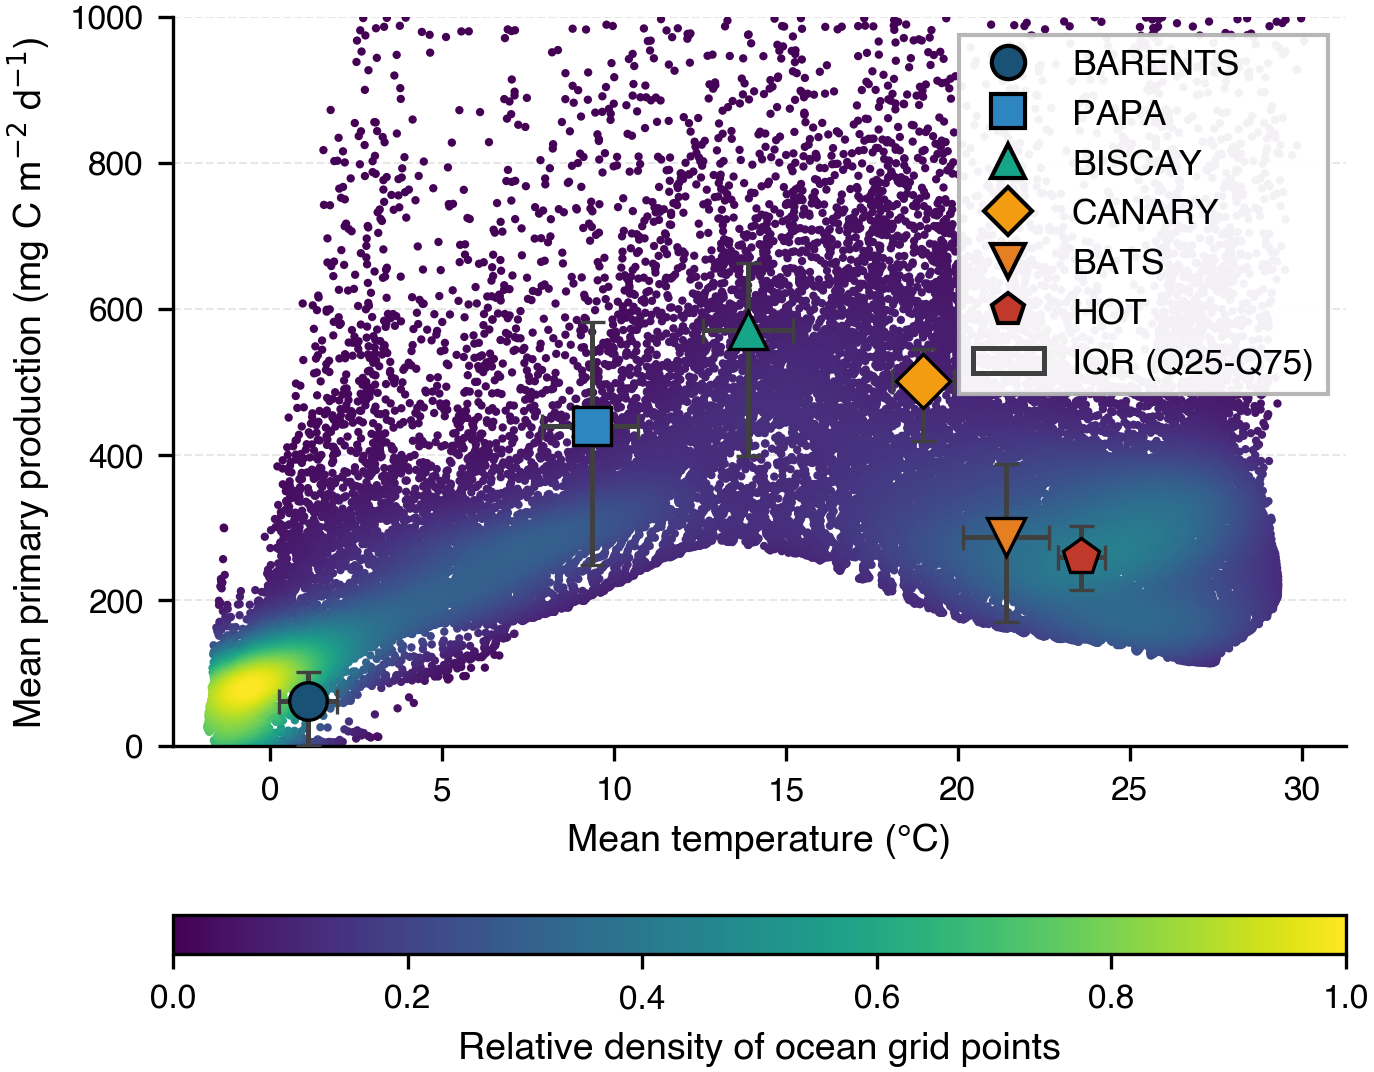
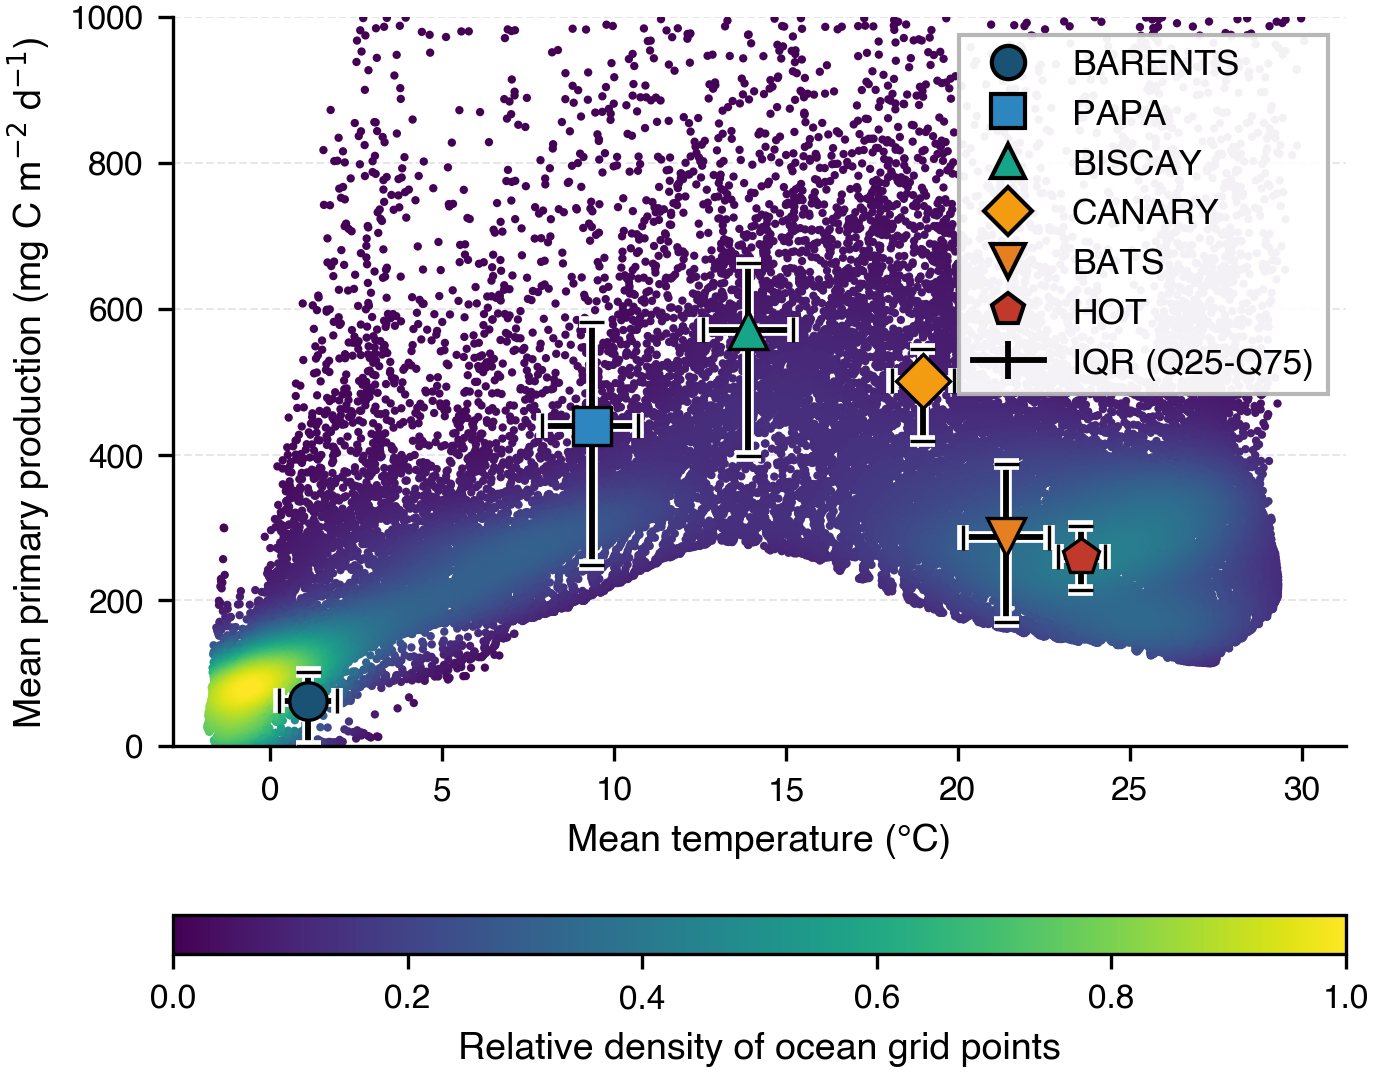
Figure 2: legible IQR — black error bars with white halo + black legend glyph
The IQR error bars were gray (0.25) and vanished over the coloured scatter. Make them black with a
white path-effect halo so they read over any background; switch the legend entry from a gray rectangle
to a black error-bar glyph. Drop the now-unused Rectangle import.

diff --git a/scripts/figures/fig02_stations_distribution.py b/scripts/figures/fig02_stations_distribution.py
@@ -12,12 +12,12 @@ Run    : .venv/bin/python scripts/figures/fig02_stations_distribution.py
 """
 from __future__ import annotations
 
+import matplotlib.patheffects as pe
 import matplotlib.pyplot as plt
 import numpy as np
 import pandas as pd
 import xarray as xr
 from matplotlib.lines import Line2D
-from matplotlib.patches import Rectangle
 from scipy.stats import gaussian_kde
 
 from seapopym_repro import figstyle as fs, paths
@@ -69,18 +69,24 @@ cbar.set_label("Relative density of ocean grid points")
 
 for sid in STATIONS:
     s = rows[sid]
-    ax.errorbar(
+    eb = ax.errorbar(
         s["temp_mean"], s["npp_mean"],
         xerr=[[s["temp_mean"] - s["temp_q25"]], [s["temp_q75"] - s["temp_mean"]]],
         yerr=[[s["npp_mean"] - s["npp_q25"]], [s["npp_q75"] - s["npp_mean"]]],
-        fmt=fs.marker(sid), color=fs.color(sid), markersize=9, capsize=3, capthick=1.2,
-        elinewidth=1.2, ecolor="0.25", markeredgecolor="black", markeredgewidth=0.8, zorder=5,
+        fmt=fs.marker(sid), color=fs.color(sid), markersize=9, capsize=3, capthick=1.4,
+        elinewidth=1.4, ecolor="black", markeredgecolor="black", markeredgewidth=0.8, zorder=6,
     )
+    halo = [pe.withStroke(linewidth=2.8, foreground="white")]   # white halo -> legible over the scatter
+    for ln in eb[1]:        # cap lines
+        ln.set_path_effects(halo)
+    for lc in eb[2]:        # bar line collections
+        lc.set_path_effects(halo)
 
 handles = [Line2D([0], [0], marker=fs.marker(sid), color="none", markerfacecolor=fs.color(sid),
                   markeredgecolor="black", markersize=8, linestyle="None", label=fs.label(sid))
            for sid in STATIONS]
-handles.append(Rectangle((0, 0), 1, 1, fc="none", ec="0.25", linewidth=1.2, label="IQR (Q25-Q75)"))
+handles.append(Line2D([0], [0], color="black", linewidth=1.4, marker="|", markersize=9,
+                       markeredgewidth=1.4, label="IQR (Q25-Q75)"))
 
 ax.set_xlabel("Mean temperature (°C)")
 ax.set_ylabel(r"Mean primary production (mg C m$^{-2}$ d$^{-1}$)")
